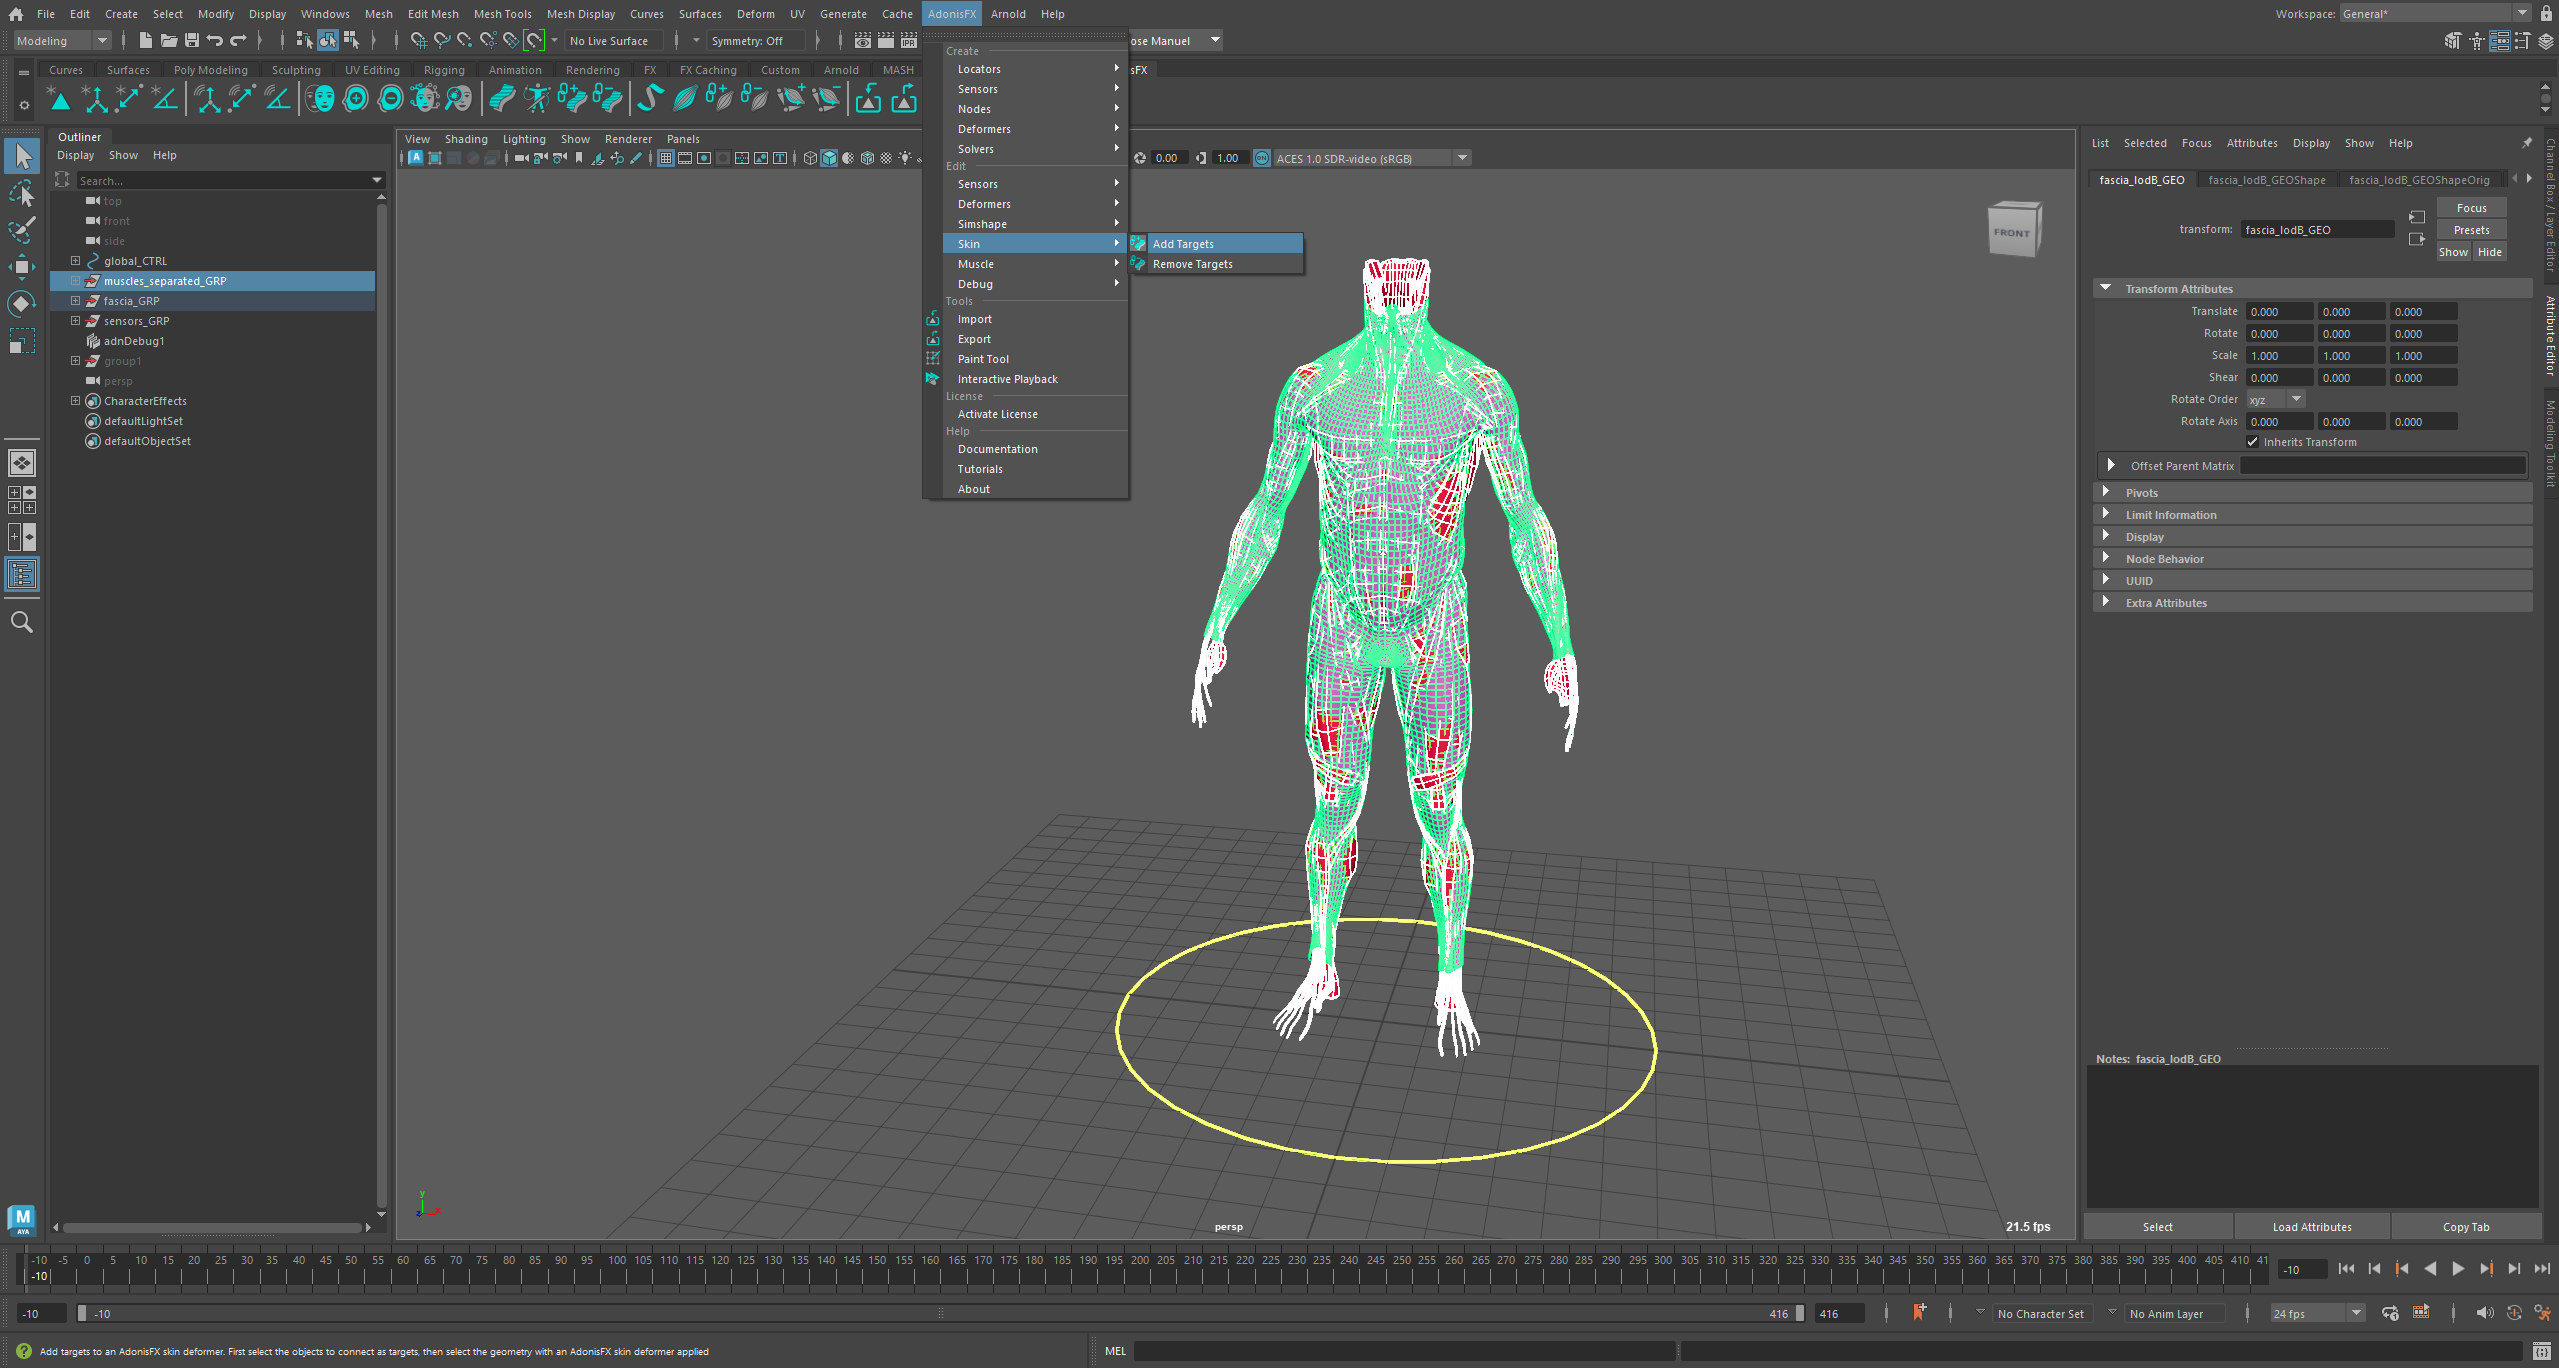
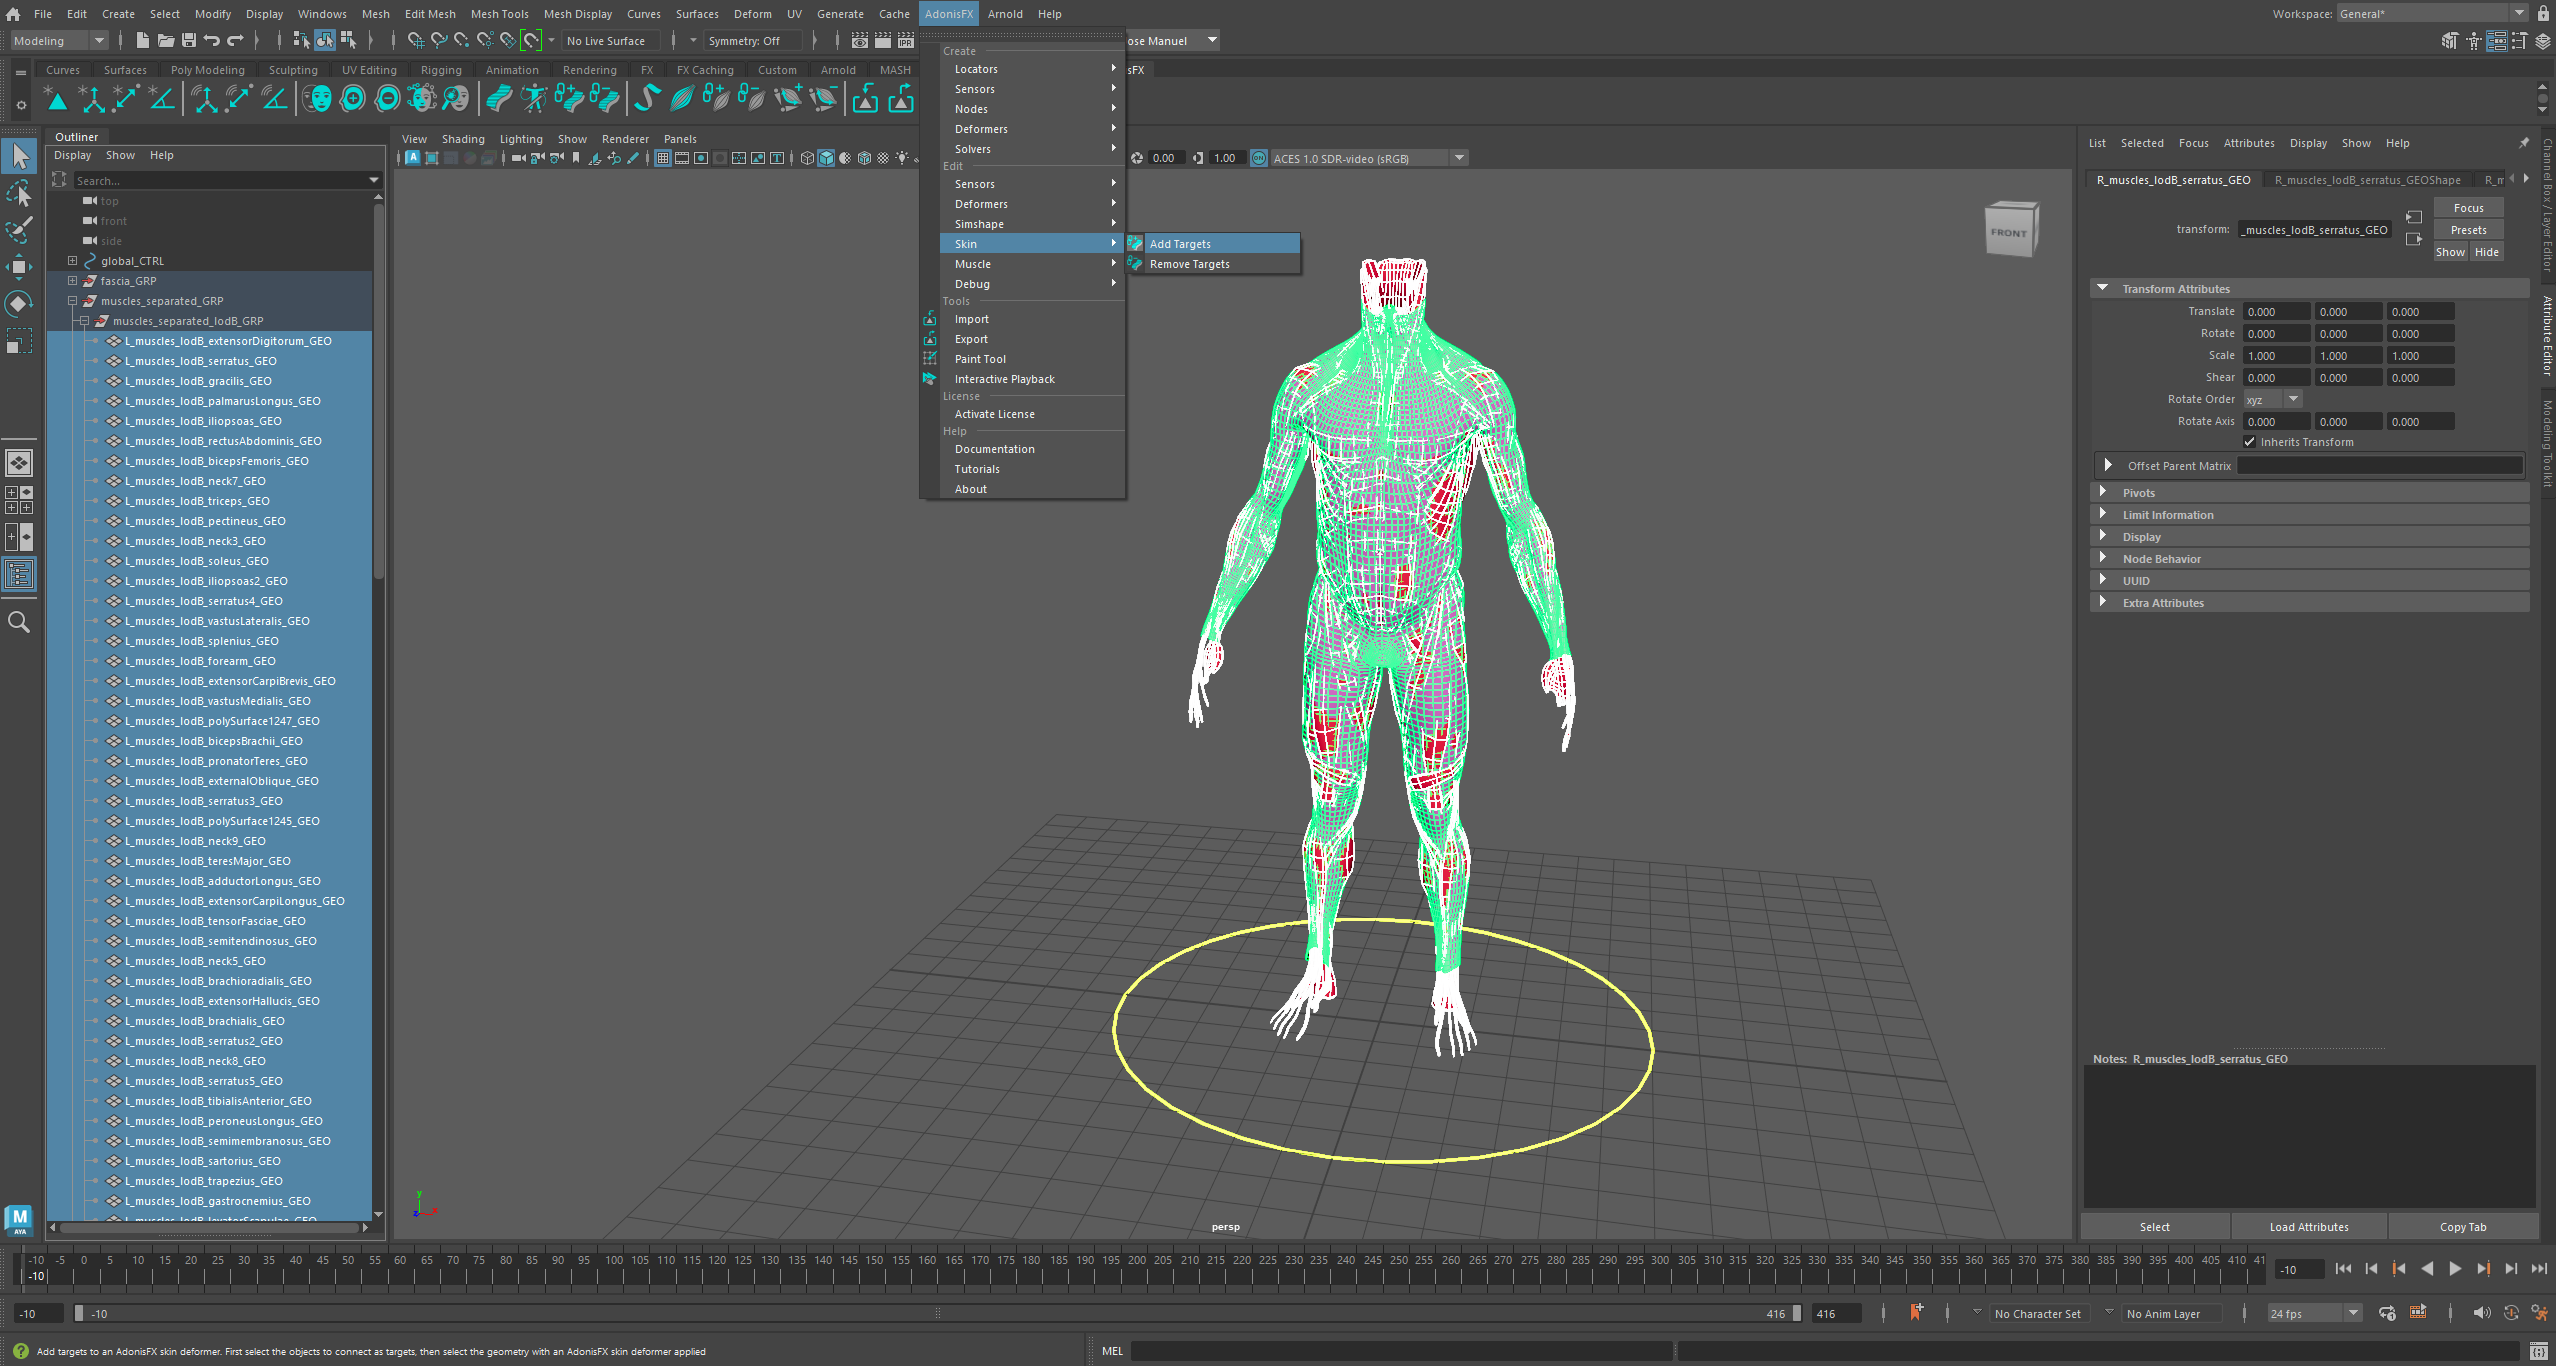
Relpaced "or add them later" with "optional, they can be added later". Updated screenshot by showing all the selected muscles in the outliner. Added more context in the label of the previous screenshot.

diff --git a/docs/maya/skin.md b/docs/maya/skin.md
@@ -14,11 +14,11 @@ To create an AdnSkin deformer within a Maya scene, the following inputs must be 
   - **Skin Mesh (S)**: Mesh to apply the deformer onto.
 
 > [!NOTE]
-> It is not mandatory to select the targets on creation of the AdnSkin deformer, Targets can be added and removed after creating the deformer. For more information check the advanced [section](#targets).
+> It is not mandatory to select the targets on creation of the AdnSkin deformer. Targets can be added and removed after creating the deformer. For more information, please check the advanced [section](#targets).
 
 The process to create an AdnSkin deformer is:
 
-1. Select the **Targets** (or add them later), then the **Skin Mesh**.
+1. Select the **Targets** (optional, they can be added later), then the **Skin Mesh**.
 2. Press ![Skin button](images/adn_skin.png){style="width:4%"} in the AdonisFX shelf or *Skin* in the AdonisFX menu, under the *Create* section. If the shelf button is double-clicked or the option box in the menu is selected a window will be displayed where a custom name and initial attribute values can be set.
 3. A message box will notify you that AdnSkin has been created properly, meaning that it is ready to simulate with default settings. Check the next section to customise their configuration.
 
@@ -190,5 +190,5 @@ Once the AdnSkin deformer is created, it is possible to add and remove new targe
 
 <figure markdown>
   ![skin adding multiple targets](images/skin_add_multiple_targets.png)
-  <figcaption><b>Figure 7</b>: Addition of multiple targets.</figcaption>
+  <figcaption><b>Figure 7</b>: Addition of multiple targets (e.g. Adding multiple muscle targets to a fascia/fat/skin simulation).</figcaption>
 </figure>

diff --git a/docs/maya/simple_setup.md b/docs/maya/simple_setup.md
@@ -18,7 +18,7 @@ The AdnSkin deformer will get applied to the last mesh which will become the sim
 
 ### Create Deformer
 
-To create the AdnSkin deformer select one or more target meshes (or add them later) and then the skin mesh. Then press the ![AdnSkins](images/adn_skin.png){style="width:4%"} shelf button or go to AdonisFX Menu > *Skin*.
+To create the AdnSkin deformer select one or more target meshes (optional, they can be added later) and then the skin mesh. Then press the ![AdnSkins](images/adn_skin.png){style="width:4%"} shelf button or go to AdonisFX Menu > *Skin*.
 
 To create the AdnSkin deformer with some initial customisation, double-click the shelf button or press the option box in the menu item. This will display a pop-up window that will allow to do some initial customisation, as well as creating the deformer with a custom name. Once all data has been provided press the *Create* button and the deformer will get created.
 
